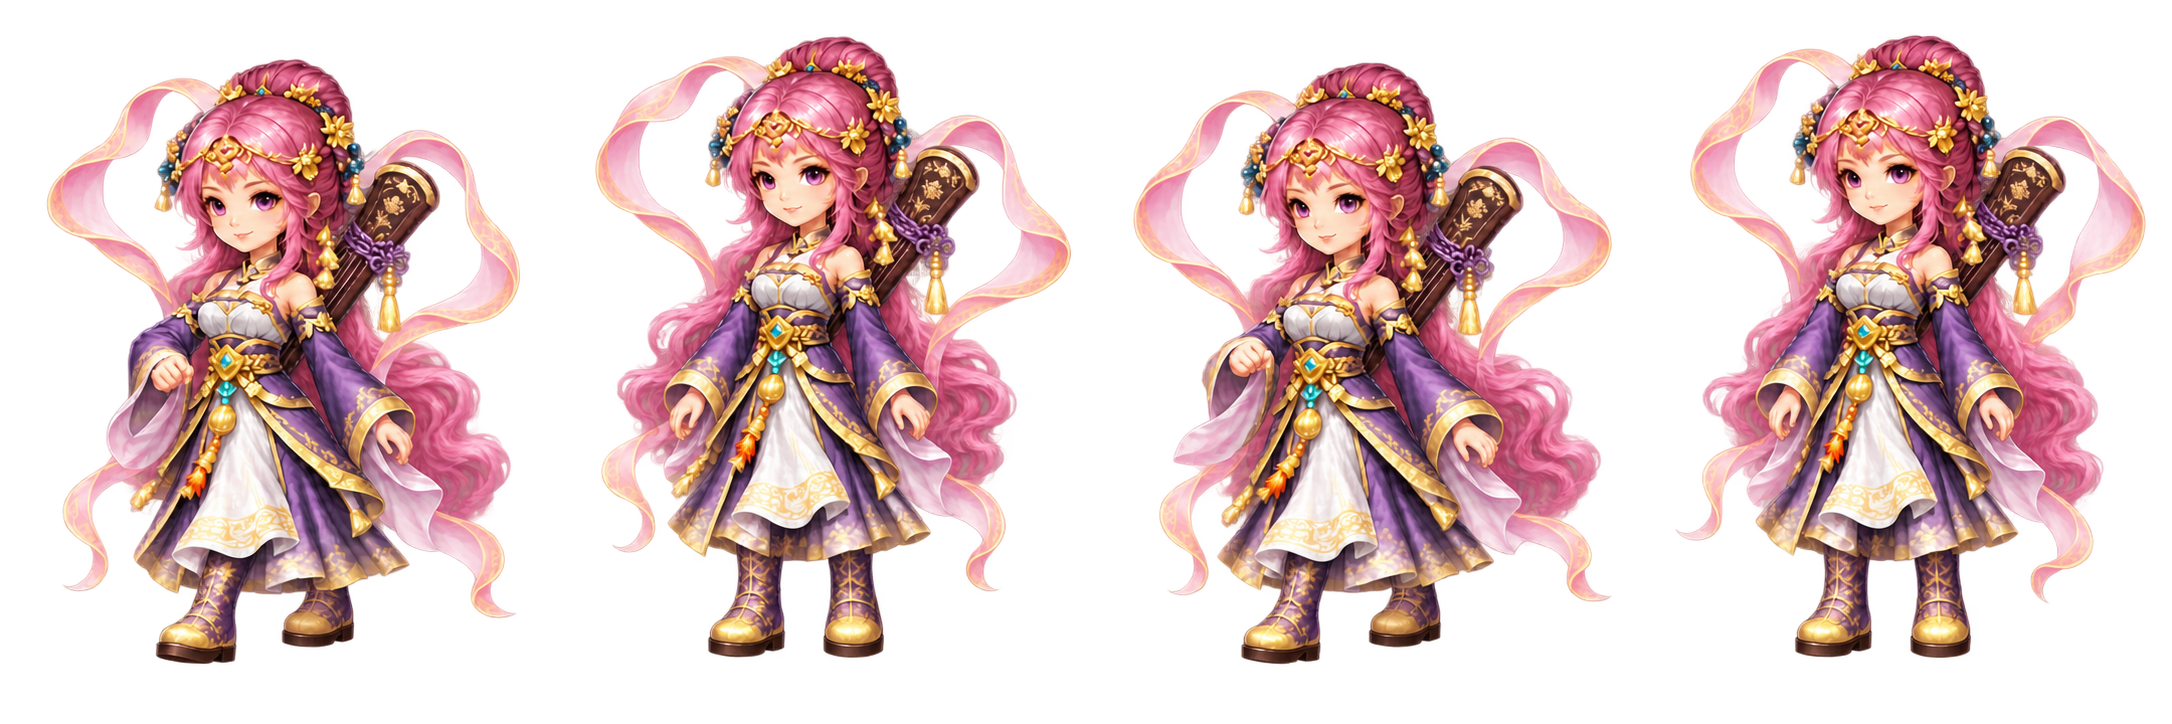
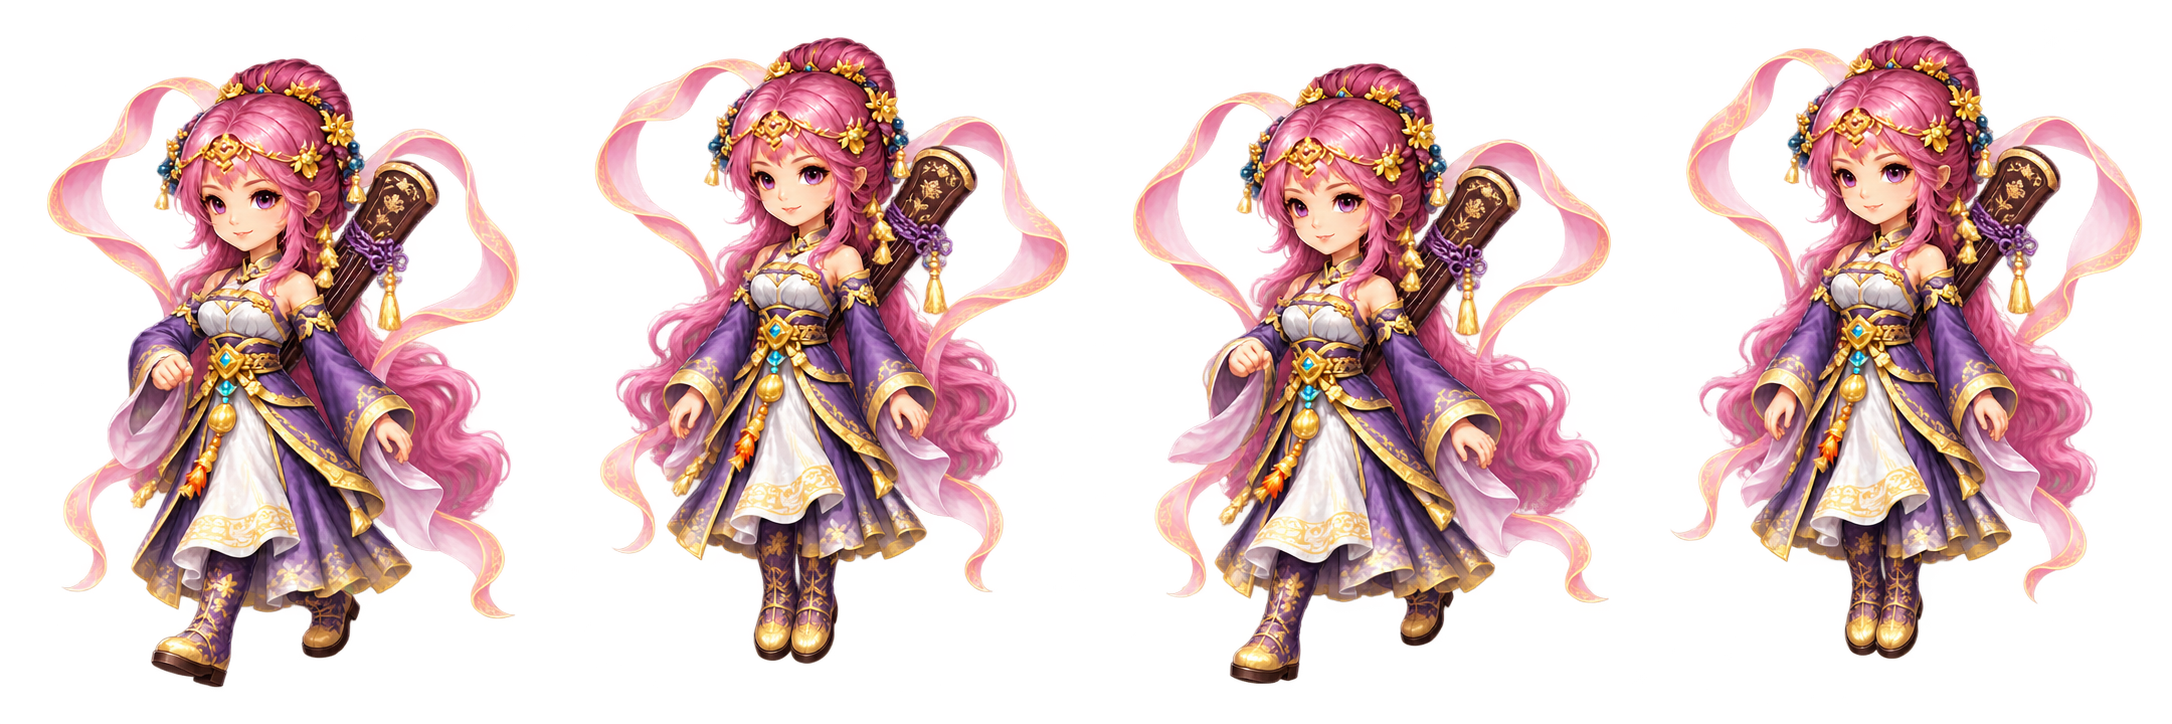
道家女正面行走表恢复原版（只保留背面重画）
Claude-Session: https://claude.ai/code/session_01Ug7SvjxsTvGWtWQTYLfcGg

diff --git a/js/assets.js b/js/assets.js
@@ -471,9 +471,9 @@ window.ASSETS = {
    45.688926458157226
   ],
   "walk_f_dao_ty": [
-   98.0,
-   120.5,
-   51.94151096669375
+   97.0,
+   121.5,
+   51.24558587479936
   ],
   "walk_b_dao_ty": [
    84.0,
@@ -481,9 +481,9 @@ window.ASSETS = {
    44.87397708674305
   ],
   "walk_f_dao_qm": [
-   97.5,
-   120.0,
-   51.94859437751004
+   97.0,
+   120.5,
+   51.42605915267786
   ],
   "walk_b_dao_qm": [
    92.0,
@@ -555,9 +555,9 @@ window.ASSETS = {
    126.0
   ],
   "walk_f_dao_dz": [
-   97.5,
-   120.0,
-   53.146103896103895
+   96.5,
+   121.5,
+   51.97423510466989
   ],
   "walk_b_dao_dz": [
    88.0,
